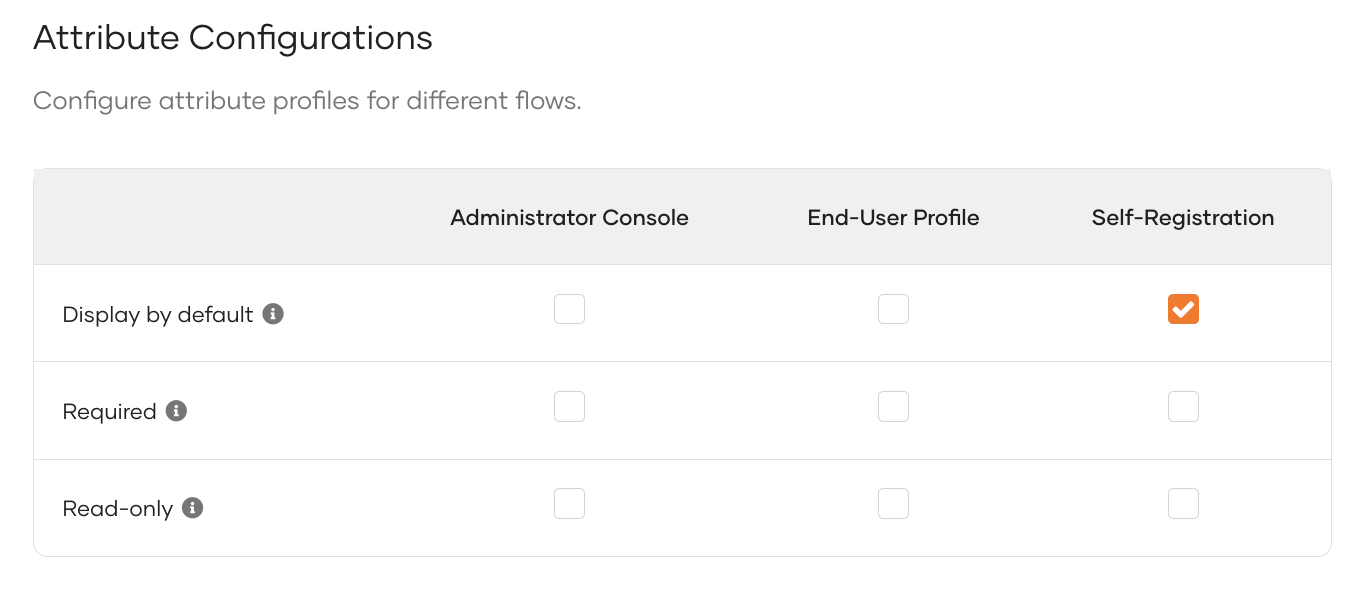
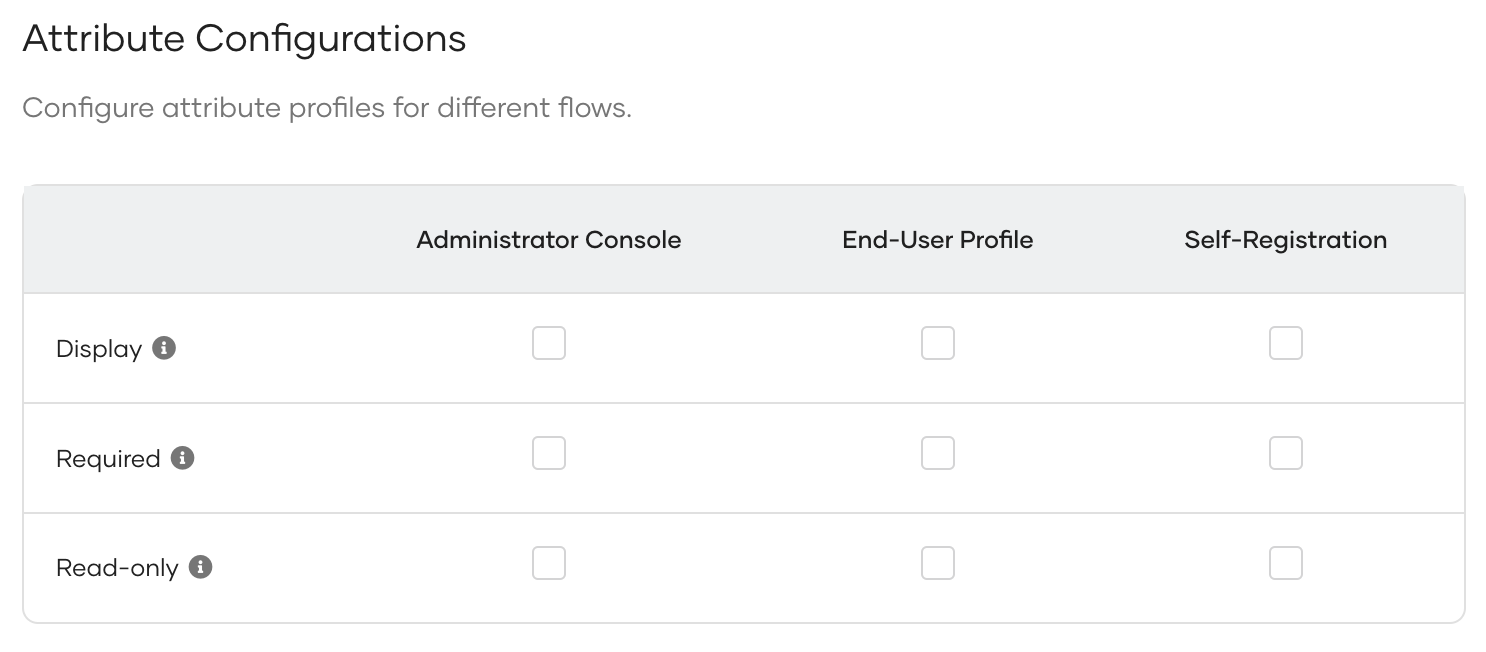
Update attribute profile types

diff --git a/en/includes/guides/users/attributes/manage-attributes.md b/en/includes/guides/users/attributes/manage-attributes.md
@@ -101,9 +101,16 @@ To update the properties of a user attribute:
 
 ### Configure attribute profiles
 
-Configure attribute profiles for different flows in your organization.
-
 ![Edit attributes]({{base_path}}/assets/img/guides/organization/attributes/configure-attribute-profiles.png){: width="600" style="display: block; margin: 0; border: 0.3px solid lightgrey;"}
+
+You can configure attribute properties for different user profiles to tailor their behavior and visibility. The
+following profiles are currently supported:
+
+- Administrator Console: User profile in the Administrator Console.
+- End-User Profile: User profile in My Account.
+- Self-Registration: User profile in self-registration.
+
+For each profile, you can configure the following properties:
 
 <table>
     <tbody>
